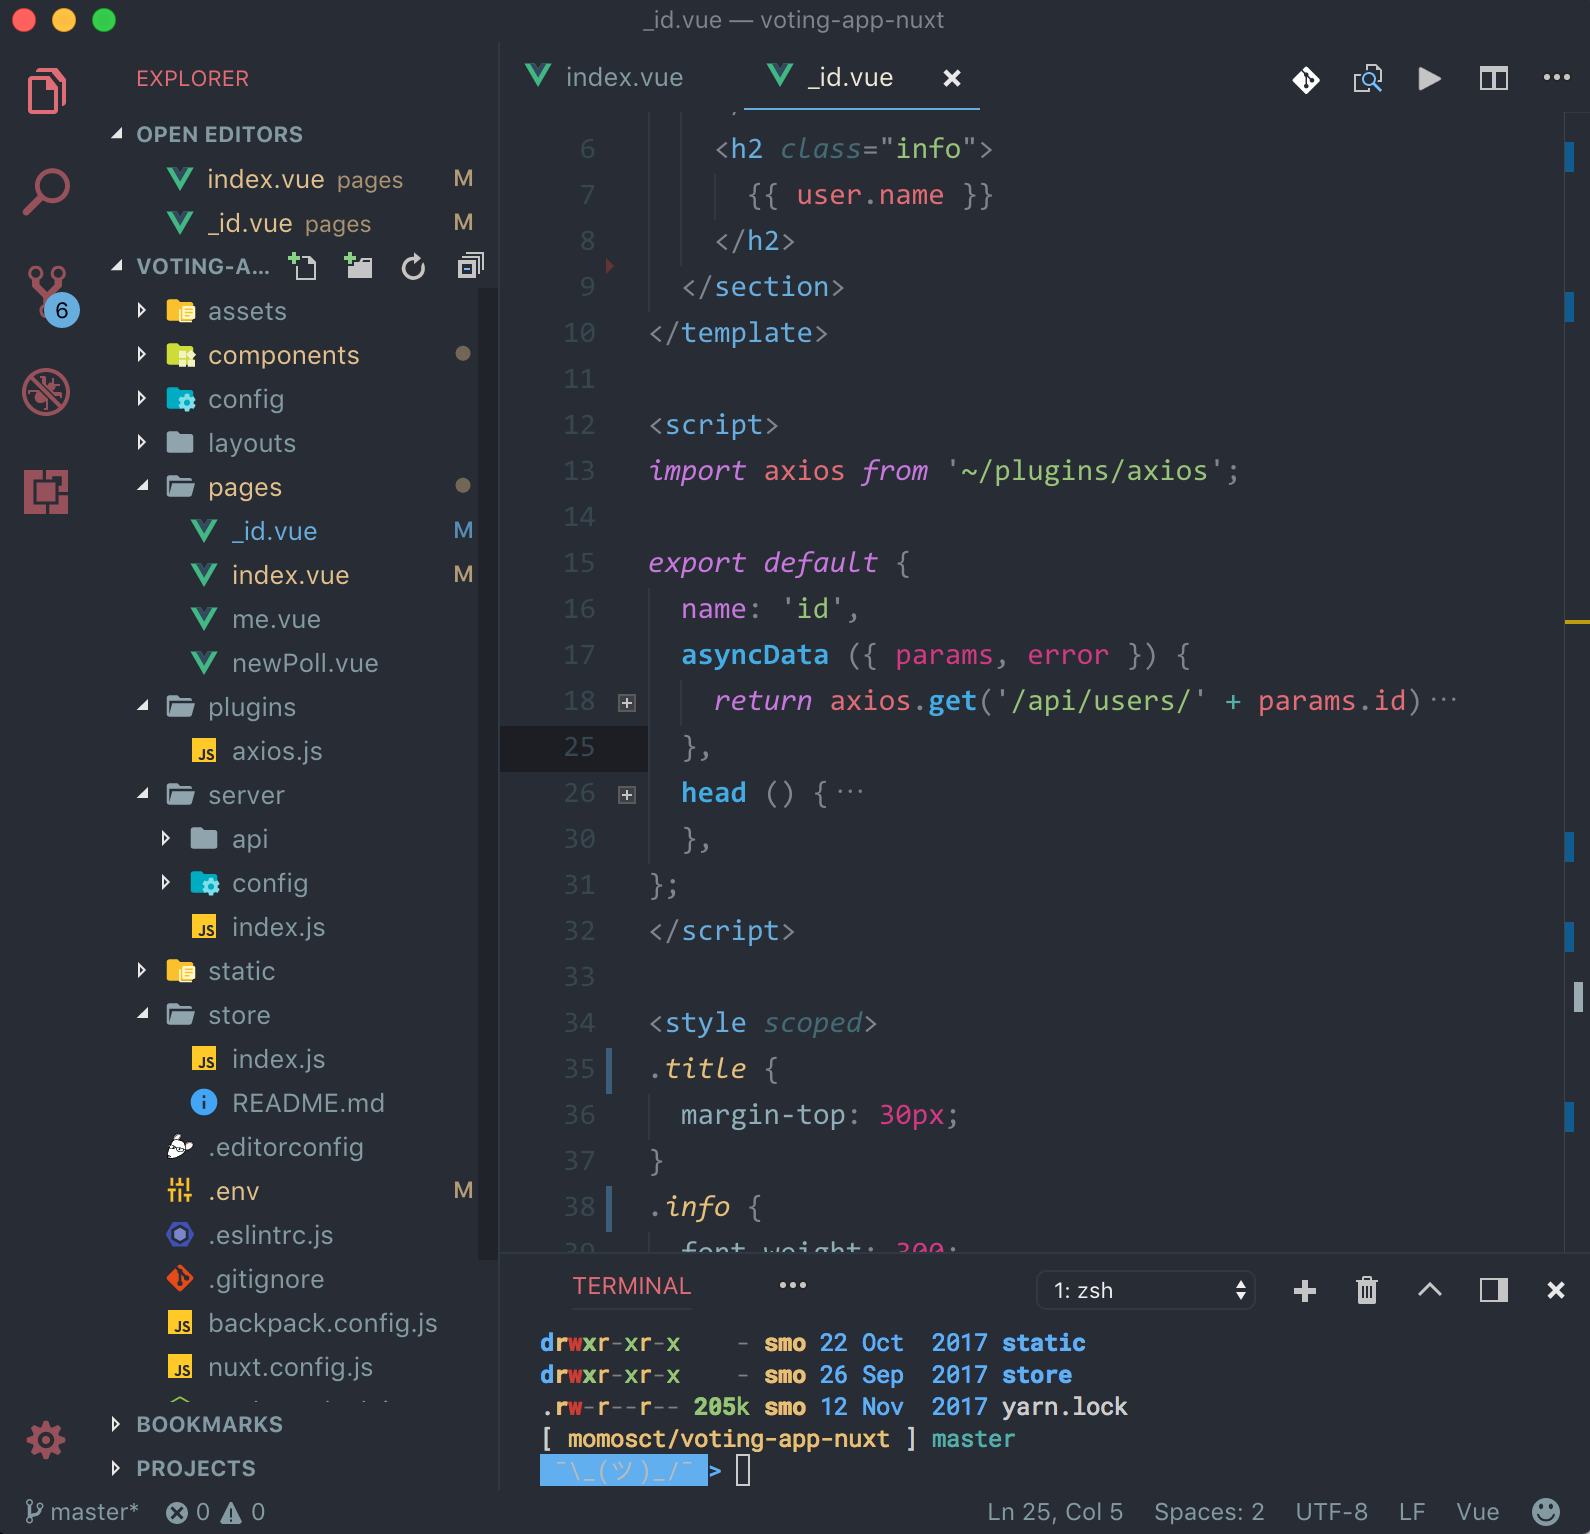
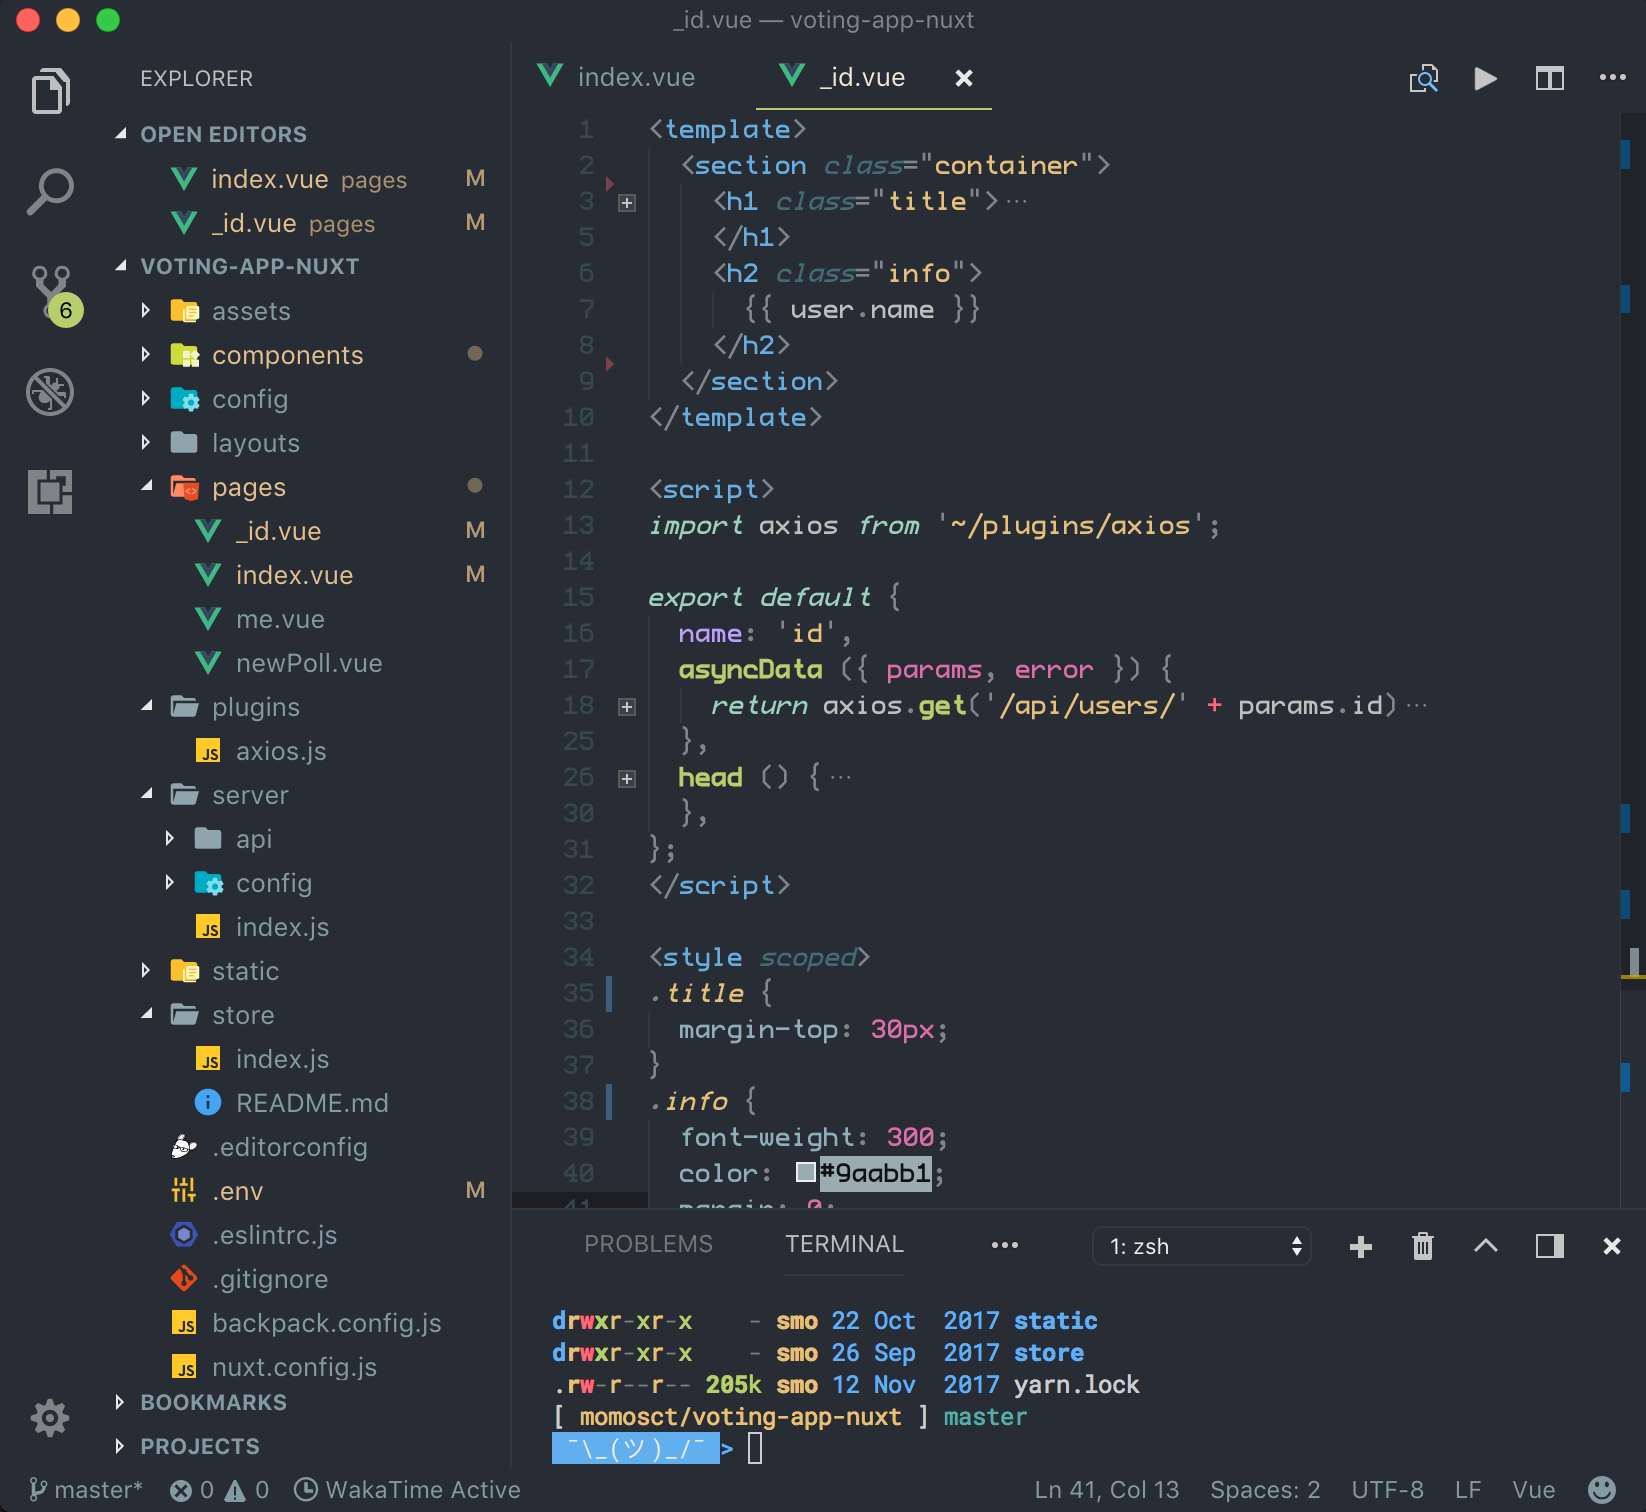
Use some of the Monokai scheme for One Dark

diff --git a/CHANGELOG.md b/CHANGELOG.md
@@ -48,3 +48,5 @@
     - Fix one dark theme file name
 - v0.5.2
     - No more red foreground for one dark
+- v0.5.4
+    - Use some of the Monokai schemes on One Dark
